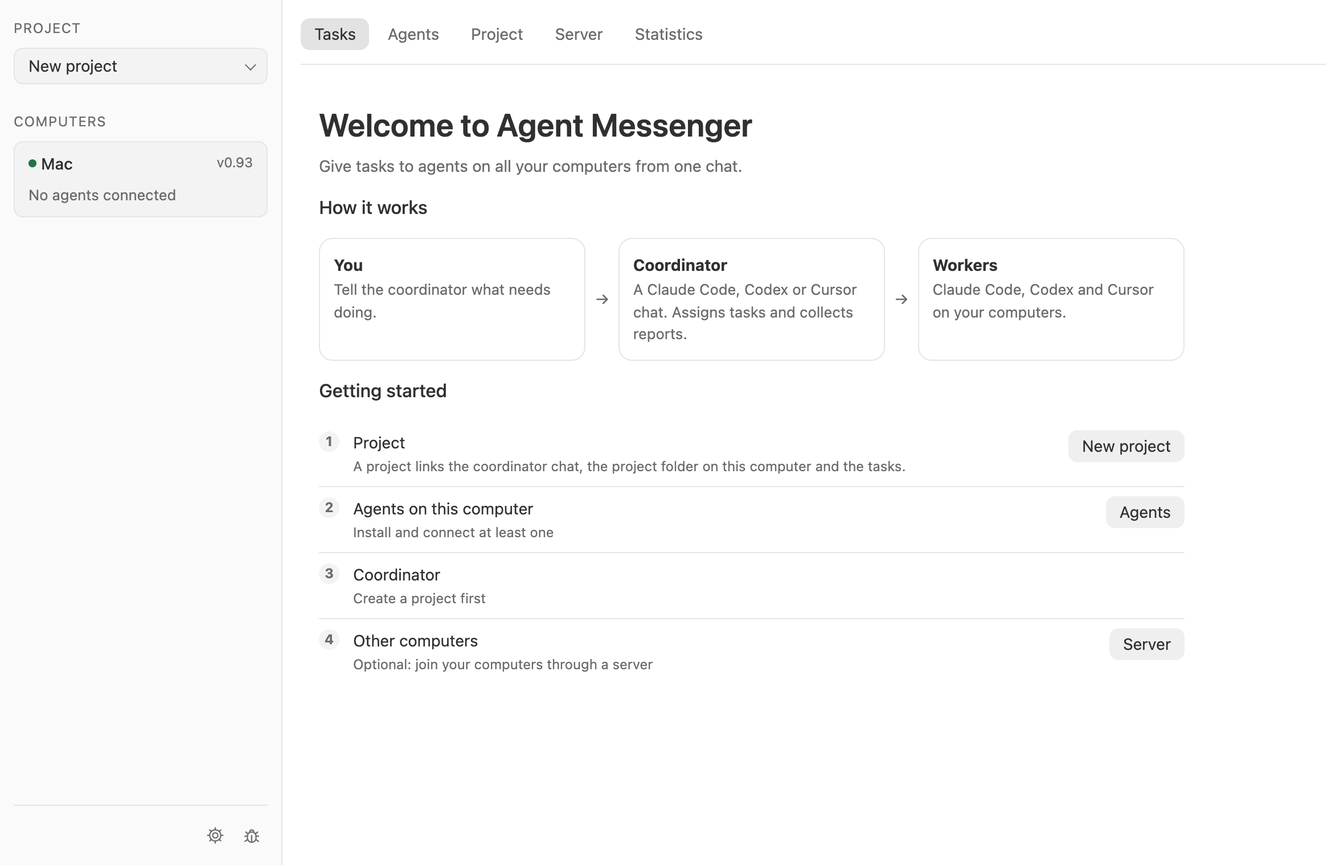
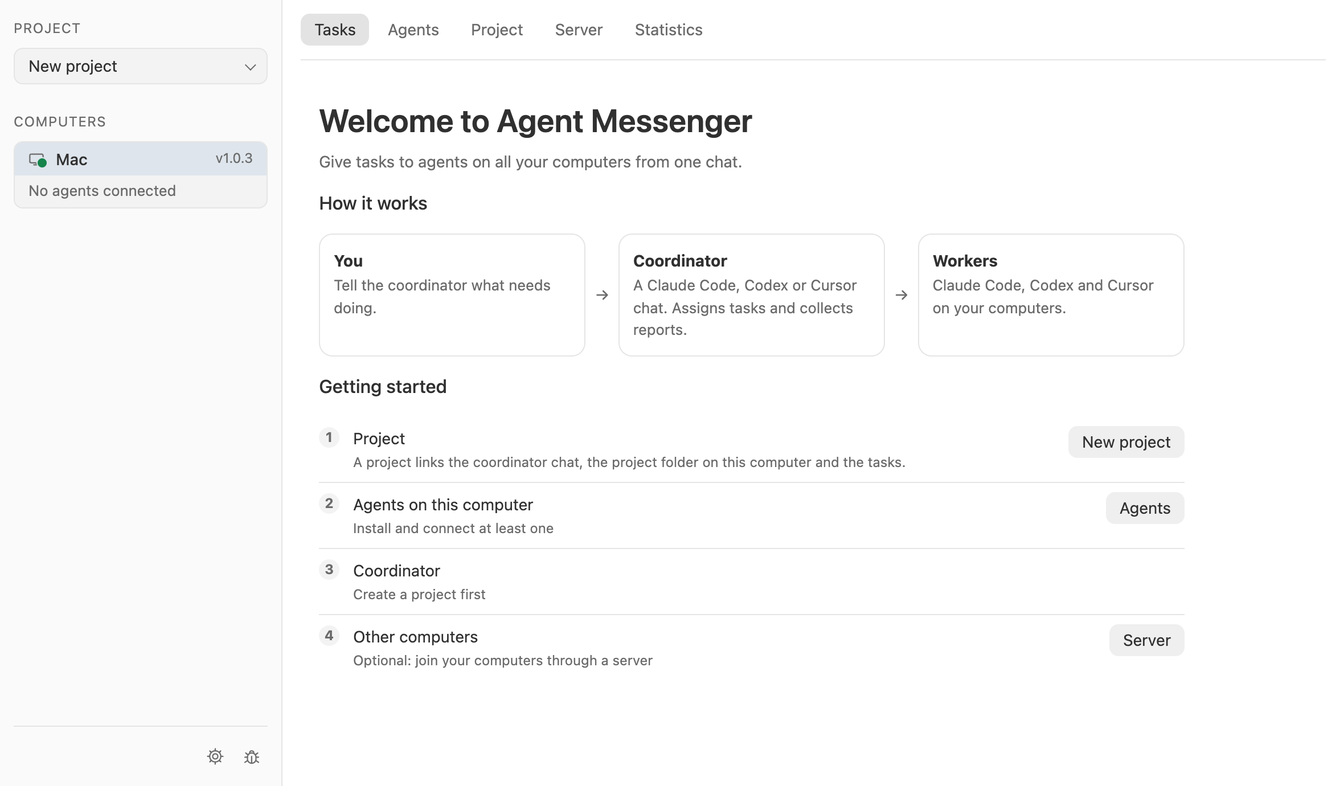
T-305: Refresh the public page for Messenger 1.0.3 (#203)

diff --git a/docs/TASK_MODEL.md b/docs/TASK_MODEL.md
@@ -9,7 +9,7 @@ A **project** has a name and, on each computer, at most one folder (`project_fol
 - not a temporary folder;
 - not the disk root.
 
-A task records the folder it was started with, so changing the folder affects only new tasks. A computer without a folder for the project refuses the project's tasks. Each computer has a stable random ID (`meta.computer_id`); another computer of the network is addressed by its broker ID (below).
+A task records the folder where it started. Changing the folder affects new tasks. A computer needs a local folder for a project before accepting its tasks. The window and coordinator tools show task activity for the selected project. See [Project storage](PROJECT_STORAGE.md) for the databases and migration. Each computer has a lasting ID (`meta.computer_id`) and a network address assigned by the broker.
 
 **Agents** are registered per computer (`computer_agents`): provider (`claude`, `codex` or `cursor`), the CLI path, an optional profile directory, and the worker profile:
 - `worker`: normal tools and the project's settings (D-023);
@@ -144,29 +144,25 @@ Every tool refuses a project that does not exist. Tools that take a task refuse 
 
 ## Window (T-029)
 
-The window observes tasks; the owner talks to the coordinator in the Claude app (D-024). Layout, from the approved [mockup](mockups/2026-11-06-task-window.html), built from the existing `app.css` components and `app.js` structure:
+The window shows task activity. The owner coordinates from a local Claude Code, Codex or Cursor chat with Messenger connected for the project. See the [setup guide](DOWNLOAD.md#first-steps).
 
 - **Sidebar.**
   - A project switcher (`am-select`) whose last item is «Новый проект». It opens a dialog for the name and the folder on this computer. In the Mac app, «Выбрать» opens a standard folder panel through the `folder` bridge.
-  - The computer cards: this computer and the other computers of its network. A card lists the coordinator (when connected) and each agent program, one line each, with a status dot:
-    - blue: working;
-    - amber: waits for the owner;
-    - hollow: idle;
-    - grey: no connection.
-
-    The full status is in the tooltip. Running and waiting indications follow the selected project's tasks (D-178). A click on a card shows only that computer's tasks and agents. Another computer's card says «Был на связи …» when it stopped reporting, offers «Обновить до …» when it runs an older version, and has a right-click menu to revoke it.
+  - Computer cards mark online and offline computers with a green dot or a red cross on the monitor icon. The server and the local computer's active coordinator have role labels. Blue marks a working agent and amber marks an agent waiting for an answer. The count on a row with parallel tasks expands to show each task's model and timing.
+  - Running and waiting indications follow the selected project's tasks (D-178). Click a card to filter tasks, agents and statistics to that computer. Drag cards to change their order. A remote computer that stopped reporting shows when it was last seen. Compatible remote computers with an older version offer an update on the card.
 - **«Задачи» tab.**
-  - **Task list** on the right, with an agent filter, in three sections:
-    - «Активные»: running and waiting tasks;
-    - «Требуют решения»: tasks whose outcome is unknown: blocked or interrupted tasks, own tasks on another computer with no contact or no answer, and other computers' open tasks while that computer is out of contact. Nothing closes them by itself. The section's «Закрыть все» closes every one of them after a confirmation;
-    - «Завершённые».
+  - **Task list** on the right, with an agent filter and up to four sections:
+    - **Active** shows running tasks and tasks waiting for an answer.
+    - **Planned** shows tasks waiting to start, including ones waiting for a resource held by another task.
+    - **Need a decision** shows blocked, interrupted or unreachable tasks with uncertain outcomes. These tasks require an explicit decision.
+    - **Finished** shows completed, failed and cancelled tasks. Older entries can be loaded in batches.
 
     Each row has three lines: the agent and the computer, the title, and a short coloured status with the time and what the task spent («Работает N мин», «Ждёт вашего ответа», «Готово за N мин», «Связь потеряна, исход неизвестен», …). Other computers' tasks from the shared list are shown read-only (T-111). The right-click menu has «Удалить из списка» (T-131, D-114): it only hides a task that no longer runs; the task stays in the database.
   - **Task feed.** The coordinator's text, answers and notes, and the owner's answers and notes, are shown as outgoing bubbles. A note shows whether the worker got it. The worker's text, its tool actions (collapsible lines from the CLI event stream, stored in `task_run_items`, at most 400 per run), its report or question with a delivery note, and the outcome of a failed, blocked, interrupted or cancelled run are shown in order.
   - **Header.** Title, then the agent with its model, the computer and the folder, then the status line.
-  - **Reply box and stop button.** While a task is active the box is shown with a square stop button, like a chat («Остановить», Esc). Stop cancels the task at once (no second confirmation), through the same `CancelTask` path as the coordinator. The box answers the worker's question to the owner («Ответить исполнителю…»). For a running task of this computer it writes a note to the worker («Написать исполнителю…», T-114, D-096), and for one that waits for the coordinator it answers in the coordinator's place («Ответить вместо координатора…», D-110). Otherwise it is disabled and says why: «Задача ждёт запуска…», «Исполнитель работает…», or that the other computer's replies are late or its worker is not running. Enter sends, Shift+Enter makes a new line. An answer uses a stable `op_id` stored per question, so a retry cannot answer twice.
+  - **Reply and stop controls.** The reply box answers a worker's question, sends a note to a running worker, or answers in the coordinator's place when the task permits it. Enter sends and Shift+Enter adds a new line. Stop an eligible task with the square button, Esc or **Stop the task** in the task list context menu. While cancellation is pending, the composer and context menu show the request status. An explicit refusal restores the draft. An answer uses a stable `op_id` so delivery retries cannot answer twice.
   - **Lost or stuck task bar.** An own task on another computer that cannot be reached, or a blocked or interrupted task, has no reply box. A bar says what is known and offers «Закрыть» (after a confirmation). For another computer's task it closes the task here; the cancel goes there if contact returns. For a stuck task of this computer it follows D-120.
-  - **First steps.** Without a project, the window offers to create one. With no task selected, the task page welcomes the owner, shows how a task flows (you → coordinator → workers) and lists the first steps: agents on this computer, the coordinator (with «Подключить» right there when Claude Code or Codex is set up), other computers. The «Проект» page has a «Координатор» row under the project folder (T-152, T-160): Claude Code and Codex separately, whether this computer's agent has the project folder, with «Подключить» when it does not, the reason when it cannot, and the `claude mcp add …` command or the Codex settings block under «Подключить вручную через Терминал». Other computers are not shown: any computer may have its own coordinator. Agents are set up once for all projects; only this link is per folder.
+  - **First steps.** The welcome screen explains projects, coordinators and workers and offers to create the first project. Use **Project → MCP plugin** to connect a local Claude Code, Codex or Cursor chat. The connection is project-scoped. After first use, an empty project shows its empty task view.
   - **Notices.** One says that tasks are recorded but the client runs without `--allow-tasks`; the client the window starts always allows tasks (D-029), so this shows only for a client started by hand. Another says that the queue is paused, with «Продолжить».
 - **«Агенты» tab.**
   - The «Любые команды» switch for every agent of this computer (D-065), and under it «И для задач с других компьютеров» (D-109).
@@ -174,8 +170,8 @@ The window observes tasks; the owner talks to the coordinator in the Claude app 
   - The tasks button reads «Задачи: N идёт, M сегодня» and filters the list by the agent. Another computer's agents are shown read-only.
 - **«Проект» tab.** The project's name, its folder on this computer («Выбрать»), «Общие указания исполнителям» (the rules copied into each new task, D-062) and «Удалить проект».
 - **«Сервер» tab.** This computer's name in the network, «Принимать задачи других компьютеров», «Отдавать журнал по сети», the server on this computer and the connection to another server ([BROKER.md](BROKER.md)).
-- **«Статистика» tab.** Tokens for today, 7 or 30 days, by agent and by computer, and the most costly tasks.
-- **Removed.** The general composer, the queue panel and the manual refresh button are gone. The window refreshes every 2 s. The Mac menu item «Обновить задачи и статусы» calls `window.messengerRefresh`.
+- **Statistics tab.** Select today, 7 days or 30 days for the current project. Filter by agent, model or computer. Sort the task table by finish time, duration or tokens.
+- **Refresh.** The Mac menu item «Обновить задачи и статусы» calls `window.messengerRefresh`.
 - **No "·" separators** in the window and the Mac shell.
 
 API (authenticated as before):

diff --git a/docs/DOWNLOAD.md b/docs/DOWNLOAD.md
@@ -21,12 +21,12 @@ On Mac, check **About This Mac** for an Apple chip. Intel Macs do not have a bui
 2. Move the app to your Applications folder, for example `~/Applications`, and open it from there.
 3. If macOS says it cannot verify the developer or check the app for malicious software, dismiss the message. Open **System Settings → Privacy & Security**, scroll down to **Security**, and look for the message about Agent Messenger and **Open Anyway** («Открыть всё равно»). It appears after you have tried opening the app. Click it for the official download and confirm in the next dialog. If it is absent, try opening the app once from its final location and return to that panel. [Apple's first-open instructions](https://support.apple.com/en-us/102445)
 
-The technical preview is ad-hoc signed and is not notarized by Apple. Data lives in `~/Library/Application Support/AgentMessenger`. Use the update arrow next to this computer's version for later releases, or use **Agent Messenger → Проверить обновления…** in the menu. [Mac app](MAC_APP.md)
+The technical preview is ad-hoc signed and is not notarized by Apple. Data lives in `~/Library/Application Support/AgentMessenger`. Use the update arrow next to this computer's version, or choose **Agent Messenger → Проверить обновления…** (Check for updates) in the Mac menu. [Mac app](MAC_APP.md)
 
 ## Windows
 
 1. Download `AgentMessenger-Windows-x64.exe` (or `-ARM64.exe` on ARM).
-2. Double-click it. If SmartScreen blocks the official download, open **More info** («Подробнее») and choose **Run anyway** («Выполнить в любом случае») when Windows offers the option.
+2. Double-click it. A SmartScreen prompt for the official download may offer **More info** and then **Run anyway**. Windows 11 Smart App Control can block an unsigned program without offering that option. [Windows app protection](https://support.microsoft.com/en-us/windows/security/windows-security/app-browser-control-in-the-windows-security-app)
 3. On the first start the program installs itself for the current user, without administrator rights (D-082): it copies itself to `%LOCALAPPDATA%\Programs\Agent Messenger`, adds «Agent Messenger» to the Start menu and to Settings → «Приложения». Then the installed copy opens. The downloaded file is no longer needed. Starting an older download opens the installed newer version instead.
 4. Agent Messenger uses WebView2 for its window and opens in the browser if WebView2 is unavailable. Closing the desktop window hides it in the notification area while the background client and its tasks keep running. Reopen it from the notification area or Start menu.
 5. To remove it: Settings → «Приложения» → Agent Messenger → «Удалить». Removal is refused while tasks run. It stops the background client and removes the program, the shortcut and the entry. The data stays.
@@ -60,19 +60,19 @@ curl -fsSL https://github.com/kolotiloff/agent-messenger/releases/latest/downloa
 
 ![Agent Messenger's welcome screen with steps for creating a project, configuring agents and connecting computers](assets/first-launch.png)
 
-1. On the welcome screen, choose **Новый проект…** (New project), enter a name and select its folder. On other computers use exactly the same project name and select the local folder there.
-2. Under **Агенты** (Agents), choose **Установить** (Install) to run the provider's installer in a terminal, or **Найти** (Find) if the CLI is already installed. Wait for the terminal to finish. If it was closed and Messenger could not confirm installation, use **Найти** to check for the CLI. The agent's graphical app is optional for running workers.
-3. Use **Войти** (Sign in) on the agent card and complete the provider's sign-in. If Codex asks to trust the project folder, use **Доверять** on its card and confirm the exact folder in the terminal.
-4. Under **Проект → MCP-плагин** (Project → MCP plug-in), check the connection for Claude Code, Codex or Cursor. Use **Подключить** (Connect) if needed. Open a **new local chat** in that same folder and ask “Which agents can you see?” Approve the Messenger tool access when your coordinator prompts.
+1. On the welcome screen, choose **New project**, enter a name and select its folder. On other computers use exactly the same project name and select the local folder there.
+2. Under **Agents**, choose **Install** to launch the provider's installer, or **Find** if the CLI is already installed. Wait for the terminal to finish. If it was closed and Messenger could not confirm installation, use **Find** to check for the CLI. Workers use the CLI and can run without the agent's graphical app.
+3. Use **Sign in** on the agent card and complete the provider's sign-in. If Codex asks to trust the project folder, choose **Trust folder** on its card and confirm the exact folder in the terminal.
+4. Under **Project → MCP plugin**, check the connection for Claude Code, Codex or Cursor. Use **Connect** if needed. Open a **new local chat** in that folder, ask it to run `list_agents`, and approve Messenger's tools when prompted.
 
 For Cursor, enable the project's `messenger` connection in its MCP settings if the new chat cannot see the tools. The `messenger_task` connection is for workers. If the tools are missing, reopen the project chat after enabling the source. The coordinator needs access to local project tools. Claude Code can use background notifications while waiting. Codex and Cursor receive updates by keeping a turn active and calling `wait`.
 
 ## Connect more computers
 
-1. On the host, open **Сервер** (Server), choose **Локальная сеть** (Local network) and press **Запустить сервер**.
-2. Click **Пригласить устройство**. On the other computer, paste the six-digit code into **Сервер → Подключение к серверу** (Server → Connect to server). Use a fresh invitation for each computer.
+1. On the host, open **Server**, choose **Local network** and press **Start server**.
+2. Click **Invite a device**. On the other computer, open **Server** and paste the six-digit code into the connection card. Use a fresh invitation for each computer.
 3. If two computers cannot find each other by six digits, try the long `am1:…` invitation with a server address the other computer can reach. Six-digit discovery needs UDP 47100 on the local network, and the connection itself uses the chosen TCP port (47100 by default). Check Windows Firewall on the server computer and make sure the systems are on the intended network. Guest Wi-Fi isolation can block discovery.
-4. On each worker computer, set its project folder and check **Принимать задачи других компьютеров** (Accept tasks from other computers).
+4. On each worker computer, set its project folder and check **Accept tasks from other computers**.
 
 For computers in different networks, use a reachable address in **Интернет** (Internet) mode and the long invitation, or a shared VPN. A home router or a VPS firewall may need an inbound TCP rule for the server port. [Network and invitation details](BROKER.md#computers-in-different-places)
 

diff --git a/README.md b/README.md
@@ -4,7 +4,7 @@
 
 One coordinator agent hands tasks to worker agents (Claude Code, Codex, Cursor Agent CLI) on your own computers: Mac, Windows and Linux, joined into one network. You watch every task in one window, answer the workers' questions and step in when needed.
 
-**Technical preview.** The app runs on macOS (Apple Silicon), Windows and Linux. Updates are signed and verified by Messenger. A fresh download may trigger Gatekeeper on Mac or SmartScreen on Windows. See the [installation guide](docs/DOWNLOAD.md) for each platform.
+**Technical preview.** Messenger runs on Apple Silicon Macs with macOS 15 or later, and on x64 and ARM64 Windows and Linux computers. Messenger verifies signed in-app updates. The Mac app is ad-hoc signed and the Windows executables are unsigned, so a first download can trigger an operating system prompt. See the [installation guide](docs/DOWNLOAD.md) for each platform.
 
 <h3 align="center">Download</h3>
 
@@ -23,16 +23,16 @@ One coordinator agent hands tasks to worker agents (Claude Code, Codex, Cursor A
   <img src="docs/assets/window-light.png" alt="Agent Messenger in English, with Claude Code, Codex and Cursor in the computers and tasks panels">
 </picture>
 
-<sub>The English task window with Claude Code, Codex and Cursor, using fictional data. The settings button at the bottom left changes the theme and language.</sub>
+<sub>Messenger 1.0.3 in English, with Claude Code, Codex and Cursor using sample projects and tasks. Change the theme or language in Settings at the bottom left.</sub>
 
 ## What it does
 
 - **Coordinator and workers.** Use a local Claude Code, Codex or Cursor chat as the coordinator. It assigns work to separate worker sessions in the project folder. Claude Code can receive background-task notifications. Codex and Cursor use `wait` during an active turn to receive worker events.
 - **Several computers.** Host the server on one of your computers or a Linux VPS. Join on the same local network with six digits, or use a long invitation with the server's reachable address. The coordinator can assign tasks to a computer that accepts them and has a folder for the project. Drag computer cards to set the order in your window.
-- **Tasks and replies.** See task progress, the model, elapsed time and token usage. The conversation shows the assigning agent's name and icon when recorded, along with its model when supplied. Open full conversations for tasks tracked by this computer, message a worker during a run or stop work, and browse read-only summaries of other computers' tasks. Workers can attach images to reports and questions.
-- **Run controls.** Interrupted or uncertain tasks appear under «Требуют решения» and are never restarted automatically. The «Любые команды» option is off by default.
-- **Statistics and feedback.** Filter by period, agent, model or computer. The task table shows when each task finished, how long it ran and how many tokens it used. Click a column heading to sort and click again to reverse. The feedback button saves a note and an optional screenshot.
-- **Updates from the window.** The update arrow appears next to the version on the computer card. Windows and Linux can also be updated from another computer on the network.
+- **Projects and tasks.** Switch between projects with separate task histories and statistics. See planned, active, finished and interrupted work, including the worker's reported model when available. A computer card can expand to show multiple tasks for the same agent.
+- **Conversations and run controls.** Write to a worker or answer a question from the task view. Stop eligible tasks from the conversation or the task list and see the request status while Messenger waits for the result. Workers can attach images to reports and questions. Messenger preserves uncertain outcomes for review. **Any commands** is off by default.
+- **Statistics and feedback.** Filter by period, agent, model or computer. Sort the task table by finish time, duration or tokens by clicking the column headings. The feedback button saves a note and an optional screenshot on this computer.
+- **Updates from the window.** The update arrow appears next to the computer version. Request updates remotely on Windows and Linux. A queued request can be cancelled before installation starts.
 
 <details>
   <summary>Statistics screenshot</summary>
@@ -43,9 +43,9 @@ One coordinator agent hands tasks to worker agents (Claude Code, Codex, Cursor A
 
 1. [Download and start](docs/DOWNLOAD.md) the app on each computer.
 2. Create a project from the welcome screen. On each worker computer, use the same project name and choose its local folder.
-3. Open **Агенты** (Agents). Install or find the CLI, sign in and confirm folder trust when prompted.
-4. In **Проект → MCP-плагин** (Project → MCP plug-in), check the connection for your chosen local coordinator. Open a new chat in that project folder and ask which agents it sees.
-5. To join more computers, open **Сервер** (Server), start the server and [invite each computer](docs/DOWNLOAD.md#connect-more-computers).
+3. Open **Agents**. Install or find the CLI, sign in and confirm folder trust when prompted.
+4. In **Project → MCP plugin**, connect Messenger for your coordinator. Open a new chat in that project folder and ask it to run `list_agents`.
+5. For a network of computers, open **Server** on the host and [invite each worker computer](docs/DOWNLOAD.md#connect-more-computers).
 
 ## Status
 
@@ -55,7 +55,7 @@ One coordinator agent hands tasks to worker agents (Claude Code, Codex, Cursor A
 | Windows and Linux | x64 and ARM64 packages. Windows installs for the current user. Linux can run from the downloaded file or install for the current user. Windows previews may trigger SmartScreen. |
 | Workers | Claude Code, Codex and Cursor. Tests use fake CLIs only; real agents are checked in separate acceptance runs. |
 | Network | Local network and internet modes, invitations by code and TLS with a pinned certificate. Use invitations for your own trusted computers. [Server guide](docs/BROKER.md) |
-| Planned | Full remote task conversations, coordinator handover and a phone view. |
+| In development | Full conversations for tasks assigned by another computer, coordinator handover between computers and a phone view. |
 
 The current state and next tasks are in [HANDOFF.md](docs/HANDOFF.md) and [TASKS.md](docs/TASKS.md); the full map of documents is in [docs/README.md](docs/README.md).
 
@@ -69,6 +69,6 @@ The current state and next tasks are in [HANDOFF.md](docs/HANDOFF.md) and [TASKS
 
 ## Project rules
 
-The product is written in Go (`cmd/messenger`, `internal`), with a native Mac shell in `desktop/macos`. Building and running it needs no Python or Node.
+The product is written in Go (`cmd/messenger`, `internal`), with a native Mac shell in `desktop/macos`. The packaged app runs without a Python or Node installation. Agent CLIs have their own prerequisites. The [CI guide](docs/CI.md) lists the tools used for builds and checks.
 
 This repository is public. Keys, local profiles, queues, session IDs and their history are never uploaded here. Rules for coding agents working on the code are in [AGENTS.md](AGENTS.md).

diff --git a/docs/RELEASE_PLAN.md b/docs/RELEASE_PLAN.md
@@ -1,12 +1,12 @@
 # Plan to the first release
 
-Written November 6, 2026; the status was last updated on November 21. This is the sequence of work on top of the original [MVP](MVP.md), the [architecture](PLAN.md), the [window](APP.md) requirements and [broker deployment](DEPLOYMENT.md). No release date is set: transitions are decided by checks, not by the percentage of code written.
+Written November 6, 2026. The current status below supplements the original [MVP](MVP.md), [architecture](PLAN.md), [window requirements](APP.md) and [broker deployment](DEPLOYMENT.md). Transitions are decided by checks.
 
 ## Current status
 
-Updated 2026-11-21. The details of each release are in [HANDOFF.md](HANDOFF.md) and [TASKS.md](TASKS.md); this section is the overview.
+Updated 2026-11-25. The details of each release are in [HANDOFF.md](HANDOFF.md) and [TASKS.md).
 
-The program is a technical preview used every day on the owner's Mac, Windows and Linux computers. Releases are numbered 0.N (tag `v0.0.0-preview.N`); [0.94](https://github.com/kolotiloff/agent-messenger/releases/tag/v0.0.0-preview.94) is the newest published one.
+The program is a technical preview used on Mac, Windows and Linux. [Messenger 1.0.3, build 106](https://github.com/kolotiloff/agent-messenger/releases/tag/v1.0.3-preview.106) is the version covered by this overview. The desktop displays the short version, while the tag and signed manifest retain the numbered build suffix. See [the latest published release](https://github.com/kolotiloff/agent-messenger/releases/latest).
 
 Done since the plan below was written:
 
@@ -14,12 +14,12 @@ Done since the plan below was written:
 - **Network of computers** ([BROKER.md](BROKER.md)): the server runs inside the client on any computer of the network; invitations by code, TLS with a pinned certificate, tasks, answers, notes, logs and updates between computers.
 - **Windows and Linux** ([WINDOWS_LINUX.md](WINDOWS_LINUX.md)): ready downloads for x64 and ARM64, the program's own window, installation for the current user, job objects on Windows.
 - **Updates** ([UPDATES.md](UPDATES.md)) on all three systems from signed GitHub releases; the window restarts an older background client; Windows and Linux computers can be updated from another computer.
-- **Window**: tasks of all computers with progress and tokens, answers and notes to workers, closing stuck tasks, agents with their models and limits, statistics, feedback journal.
+- **Window**: project-scoped task lists and statistics, planned work, alerts for unclear task outcomes, worker notes and answers, elapsed time, reported models and a feedback journal.
 - **CI** on Linux, macOS and Windows, with the downloads built and installed; a daily watch of the worker CLIs.
 
 Not done yet: Developer ID signing and notarization on Mac and code signing on Windows (T-013), an Intel Mac build (T-014), backup and rollback (T-011), coordinator role handover (T-017), a standby server computer, a phone view (T-147).
 
-The stage table below is the plan of November 6 and is kept for its exit conditions; several stages were reached in a different order or replaced by the task model.
+The sections below preserve the November 6 plan and its exit conditions. The current behavior is described in [Task model](TASK_MODEL.md), [Updates](UPDATES.md) and [Download and start](DOWNLOAD.md).
 
 ## Path to release
 

diff --git a/docs/UPDATES.md b/docs/UPDATES.md
@@ -44,9 +44,11 @@ An update icon on another computer's card in the left panel, shown when that com
 
 Starting with 0.100, ask the coordinator to call `cancel_messenger_update` with the computer ID from `list_agents` to release a queued update. Wait for the `messenger_update` result before sending new work. The command refers to the exact observed request and leaves started installations and running tasks alone. The receiver must run 0.100 or newer. To cancel an automatic update or one requested by another computer, the broker must also be 0.100 or newer to carry the pending request ID. The original requester can use its saved ID on an older broker. An already-installed target or a signed check proving there is no newer release releases the pending update even while tasks still run.
 
-In the development version after 1.0, the receiver gives an accepted request five minutes to start installation. The deadline survives a client restart. Expiry releases the queue for new work and returns a terminal refusal with the reason, including to older requesters. The owner can request the update again. Existing tasks and installations continue.
+Since 1.0.1, the receiver gives an accepted request five minutes to start installation. The deadline survives a client restart. Expiry releases the queue for new work and reports the reason. The owner can request the update again. Existing tasks and installations continue.
 
 With the updated broker and windows, confirming an update changes its download arrow to a rotating circular arrow in connected windows as soon as the broker stores the request. Hover or focus the circular arrow to reveal the red cancel cross. Cancellation identifies that exact request. Once installation starts the circular arrow keeps rotating and its tooltip indicates installation. Reduced motion settings keep the circular arrow still. Reconnecting windows read the current snapshot. Older brokers use the existing presence refresh, and receivers before build 100 cannot accept remote cancellation.
+
+Since 1.0.3, a confirmed result updates the notification and computer card together. A confirmed request stays cancellable while queued even if the device list is late. On supported Windows and Linux installations, **Automatic updates** in Settings lets that computer queue its own updates.
 
 With T-240, a Windows or Linux window checks locally for the newly installed version, even while in the tray. When the background client answers with that newer version and the recorded program matches the signed update, the window closes and opens the new program. This step leaves the background client running. A window from a release before T-240 needs to be exited once via the tray and reopened from the installed program to enable this behavior.
 

diff --git a/docs/TASKS.md b/docs/TASKS.md
@@ -15,6 +15,7 @@ Order set by the owner (2026-11-08): design first (T-061 agent cards and setting
 
 | ID | Task | Owner | Branch / notes |
 |---|---|---|---|
+| T-305 | Refresh the public GitHub page and English screenshots for the current release. | agent | `codex/t305-public-page-refresh`. Uses 1.0.3 window assets and fictional data. Includes the download, network, task and update guides. |
 | T-267 | Review of the 0.95 per-project storage: one unroutable network message stopped the inbox; a task whose start failed half-way blocked a shared resource and stayed «running»; a failed storage activation stopped the client from starting (2026-11-23). | agent | Released in 0.97. `claude/amazing-noether-apbflv` (D-188). Unroutable messages are skipped, starts for a project without storage are refused, unpublished tasks are closed at startup, activation that changed nothing keeps the single database. Covered by Go tests with fixture databases (no real models); the inbox fix was found by reading the code, not observed in use. |
 | T-268 | A worker's picture opens in its own large viewer with zoom, drag and arrows between the pictures of one message, instead of growing inside the chat (owner, 2026-11-23). | agent | Released in [0.98](https://github.com/kolotiloff/agent-messenger/releases/tag/v0.0.0-preview.98) via [PR #183](https://github.com/kolotiloff/agent-messenger/pull/183). `claude/amazing-noether-apbflv` (D-189). Checked in Chromium with fictional data (`scripts/check-window-pictures.cjs`, in CI for Chromium and WebKit); WebKit runs in CI only; not tried in the installed app. |
 | T-269 | Statistics filters: the period tabs, the lists and the computer chip had different heights and the chip sat at the right edge (owner, 2026-11-24). | agent | Released in [0.98](https://github.com/kolotiloff/agent-messenger/releases/tag/v0.0.0-preview.98) via [PR #183](https://github.com/kolotiloff/agent-messenger/pull/183). `claude/amazing-noether-apbflv` (D-189). One control height, all from the left. Seen on a Chromium screenshot with fictional data. |

diff --git a/docs/DEPLOYMENT.md b/docs/DEPLOYMENT.md
@@ -1,6 +1,6 @@
 # Broker placement: VPS or your own computer
 
-Agreed principle, November 5, 2026: **one broker component and one protocol regardless of where it runs**. A VPS is optional. These are implementation requirements. Parts of this page are still a plan. What is built (a server hosted inside the client on any computer of the network, invitations, joining, tasks between computers; no VPS package) is in [BROKER.md](BROKER.md).
+Agent Messenger uses one broker component and one protocol on both desktop computers and Linux VPS hosts. A VPS is optional. For current setup steps, see [Download and start](DOWNLOAD.md#server-on-a-linux-vps) and the [broker guide](BROKER.md).
 
 ## Application modes
 
@@ -13,7 +13,11 @@ For the first launch on a single Mac, a local broker reachable only from that ma
 
 On a VPS the same broker is installed as a separate server package with no GUI and without Claude/Codex/Cursor. Settings, database format, API and compatibility checks are shared; packaging and OS service integration differ.
 
-## Settings and first launch
+## Historical deployment plan
+
+The remaining sections describe the November 5 design, including a proposed SSH setup wizard. The available VPS installer is the command-line installer documented above.
+
+### Settings and first launch
 
 To connect: server address, device name, a one-time invitation or a device approval procedure, then "Check connection". After registration, a separate revocable device key is stored in a file only the user can read (mode 0600, Q-013).
 

diff --git a/docs/HANDOFF.md b/docs/HANDOFF.md
@@ -8,6 +8,8 @@ The owner asked the agent to finish the program without them ("доделай б
 
 ## Current state
 
+**T-305 refreshes the public GitHub page for 1.0.3.** The English screenshots use the released window assets and sample devices, projects and tasks. The landing page and its installation, network, task and update guides describe the released behavior.
+
 **[1.0.3, build 106](https://github.com/kolotiloff/agent-messenger/releases/tag/v1.0.3-preview.106) is released** from `bb9afce6f290b4c029669dc8c19efcb8ddb67975`. [PR #200](https://github.com/kolotiloff/agent-messenger/pull/200) and its eight [client checks](https://github.com/kolotiloff/agent-messenger/actions/runs/45570210886) passed. All four [release jobs](https://github.com/kolotiloff/agent-messenger/actions/runs/45572340945) passed, including discovery from 0.99. The public release has 22 uploaded assets. An independent check verified the public upgrade route, signatures, archive hashes and source revision for all five targets. Verification used fixture devices and did not install the update on the owner's computers.
 
 - T-303 replaces the composer and task context menu actions with the stop request status. An explicit refusal restores the composer and its draft.

diff --git a/docs/BROKER.md b/docs/BROKER.md
@@ -1,6 +1,6 @@
 # Broker: what is built (T-015, first part)
 
-Status on 2026-11-13 (0.66 released, 0.67 in preparation): the background client can host a broker, a computer can join a broker by invitation or short code, every computer sees the others with their agents and tasks, and a coordinator can give, answer, continue, note and cancel tasks on another computer (T-037, see [TASK_MODEL.md](TASK_MODEL.md#tasks-between-computers-t-037)). The owner can update another computer from the window, and a coordinator can read another computer's log when that computer allows it. The placement principles are in [DEPLOYMENT.md](DEPLOYMENT.md).
+Host a broker on a desktop computer or Linux VPS. Computers join by a long invitation or by six-digit discovery on a local network. A coordinator can give, answer, continue, note and cancel tasks on another computer (T-037, see [TASK_MODEL.md](TASK_MODEL.md#tasks-between-computers-t-037)). The window can request updates on connected Windows and Linux computers. A coordinator can read another computer's log when that computer allows it. For setup, see [Download and start](DOWNLOAD.md#connect-more-computers).
 
 ## What works
 

diff --git a/docs/LOG.md b/docs/LOG.md
@@ -2,6 +2,10 @@
 
 One entry per work session, newest first. Write what was done, which tool did it, the PR, and anything the next session must know. Keep entries to a few lines; details belong in PRs and reports.
 
+## 2026-11-25 — Codex (T-305)
+
+- Refreshed the English task window in both themes, statistics, and first-launch screenshots from the 1.0.3 assets with fictional data. Updated the public overview and its setup, task, network and update instructions against the published release.
+
 ## 2026-11-25 — Codex (1.0.3 release, T-296–T-299 and T-301–T-303)
 
 - Merged the seven fixes in [PR #200](https://github.com/kolotiloff/agent-messenger/pull/200) as `bb9afce`. All eight [client jobs](https://github.com/kolotiloff/agent-messenger/actions/runs/45570210886) passed, including the final task stop fixture in Chromium and WebKit.

diff --git a/docs/README.md b/docs/README.md
@@ -25,7 +25,7 @@ These change all the time. Every tool reads them at the start and updates them a
 | [WINDOWS_LINUX.md](WINDOWS_LINUX.md) | Windows and Linux: the window, agents, job objects, what is verified |
 | [UPDATES.md](UPDATES.md) | Updates on Mac, Windows and Linux, and of another computer of the network |
 | [CLI_CHECK.md](CLI_CHECK.md) | Checking an agent's CLI version and sign-in; the «не проверена» mark |
-| [DEPLOYMENT.md](DEPLOYMENT.md) | Where the server runs: your own computer or, later, a VPS (partly a plan) |
+| [DEPLOYMENT.md](DEPLOYMENT.md) | Where the server runs, with the VPS installation guide and historical plans |
 
 ## Plans
 
